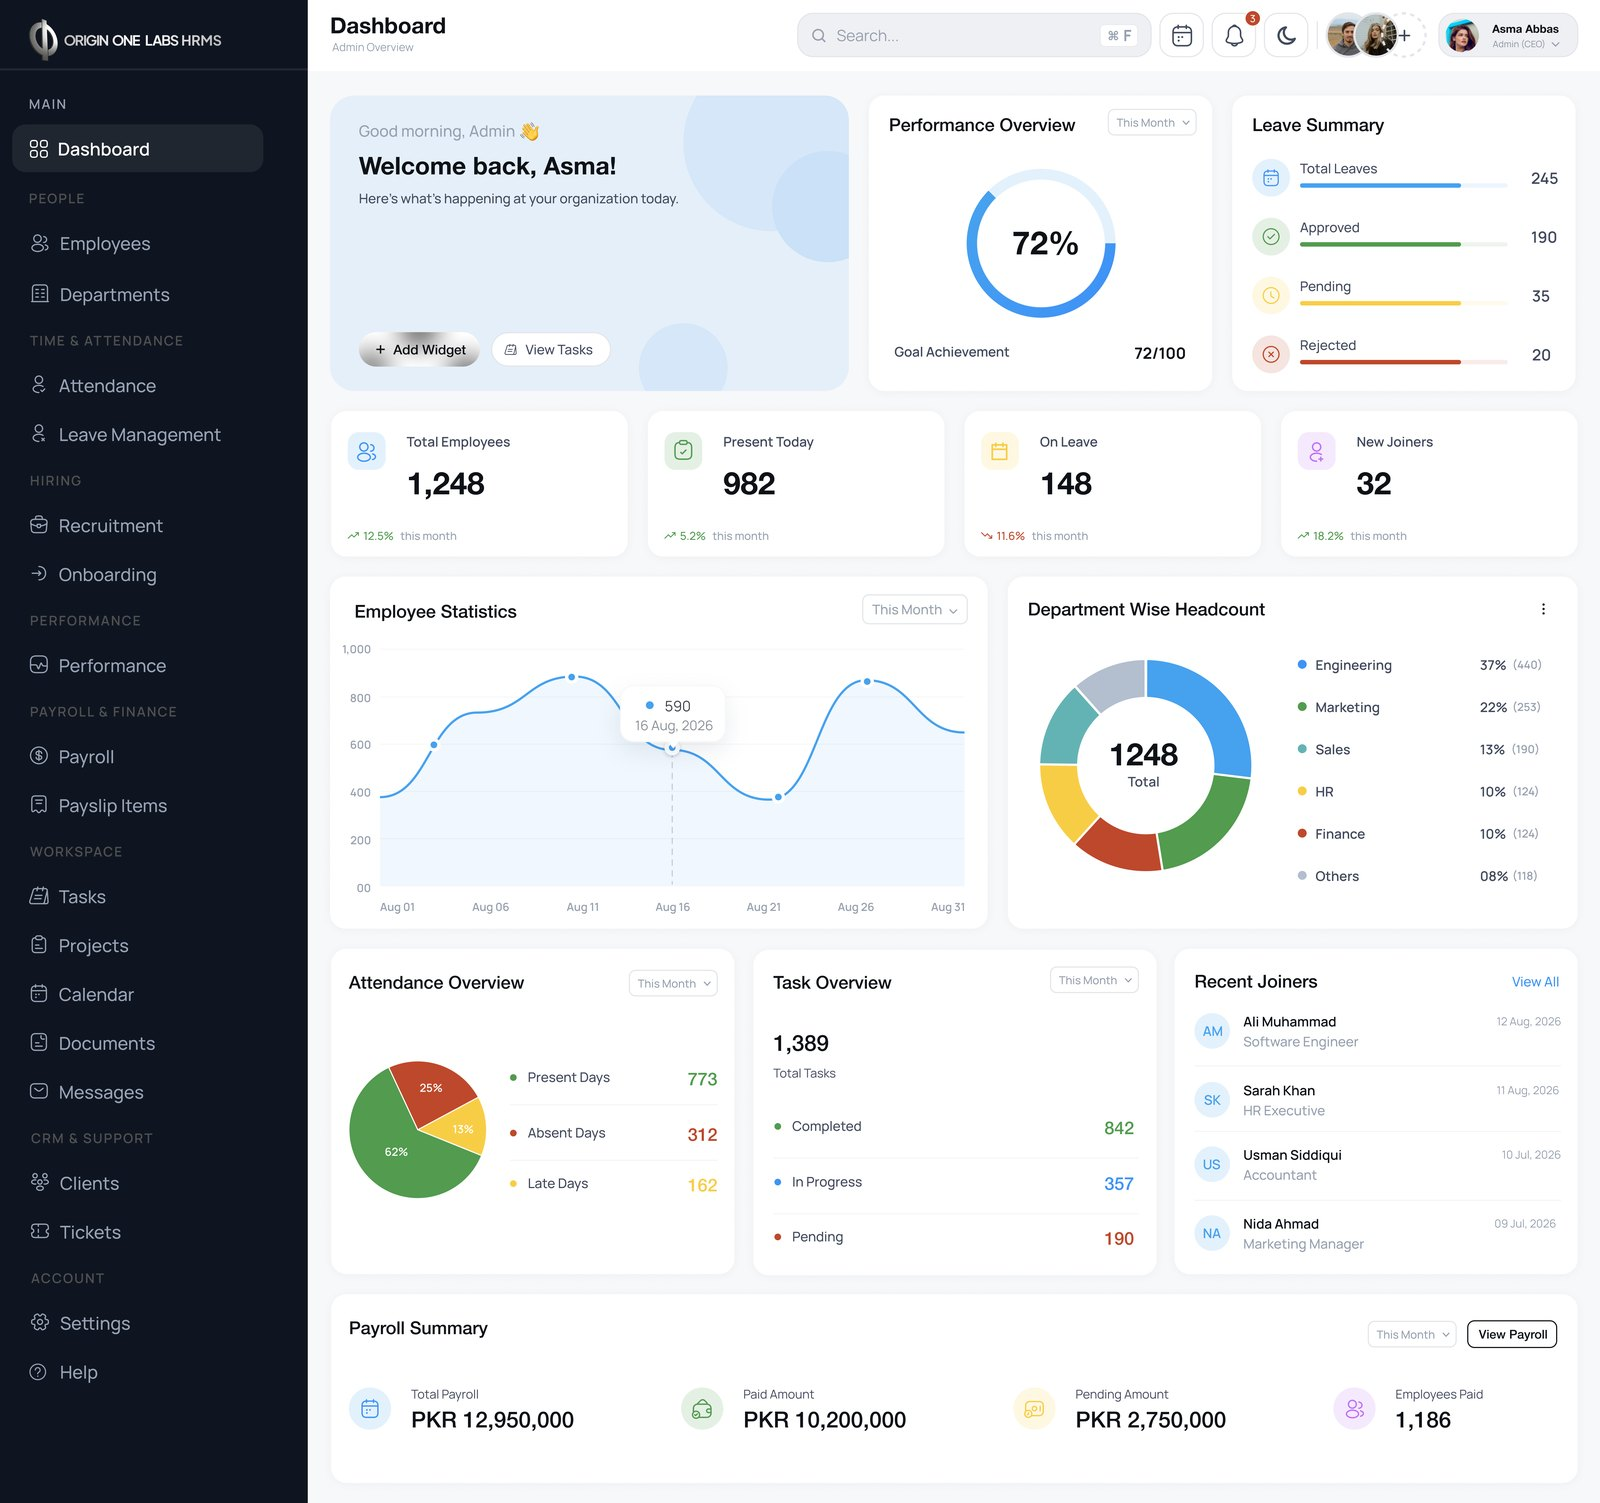
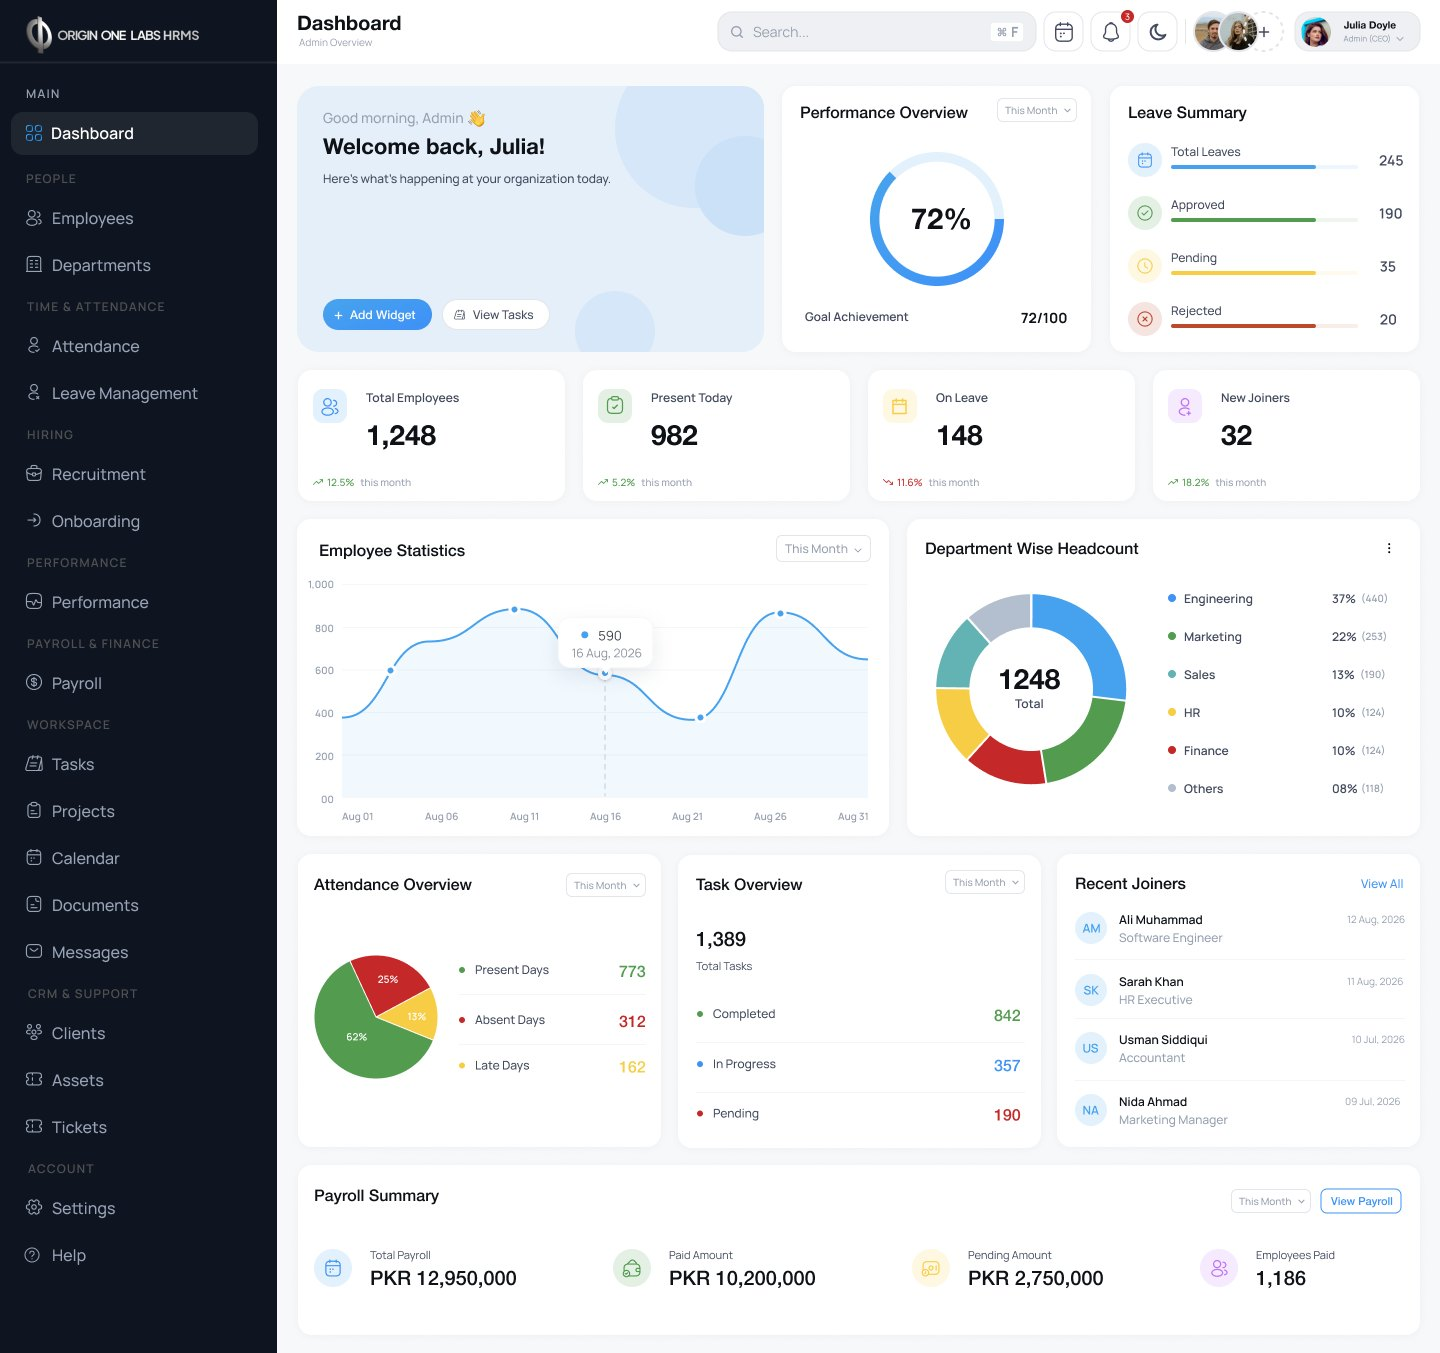
Updated changes

diff --git a/app/components/ProjectSlide.tsx b/app/components/ProjectSlide.tsx
@@ -28,6 +28,11 @@ interface ProjectSlideProps {
   topMaxWidth?: string;
 }
 
+const mockupVariants = {
+  hidden: { opacity: 0 },
+  visible: { opacity: 1, transition: { duration: 1.0, ease: [0.16, 1, 0.3, 1] as const } },
+};
+
 export default function ProjectSlide({
   // eslint-disable-next-line @typescript-eslint/no-unused-vars
   id, slideNumber, title, description, domain, background, status, features, mockupSrc, mockupSrcSplash, mockupType = "mobile", showcase, topMaxWidth = "620px",
@@ -37,11 +42,11 @@ export default function ProjectSlide({
       {/* Full-height positioning context */}
       <div className="project-slide-frame">
 
-        {/* ── Top: label + title + description + divider ── */}
-        <div className="stack stack-sm" style={{ maxWidth: topMaxWidth }}>
+        {/* ── Header: label + title + description + divider ── */}
+        <div className="stack stack-sm">
 
           {/* Top row */}
-          <div style={{ display: "flex", alignItems: "center", justifyContent: "space-between", paddingBottom: "0.2rem" }}>
+          <div style={{ display: "flex", alignItems: "center" }}>
             <motion.p className="t-label eyebrow" variants={itemVariants} style={{ position: "relative", overflow: "hidden" }}>
               <motion.span
                 className="label-shimmer"
@@ -56,28 +61,8 @@ export default function ProjectSlide({
                   pointerEvents: "none"
                 }}
               />
-              {slideNumber} / Project Overview
+              {slideNumber.padStart(2, "0")} / Project Overview
             </motion.p>
-            <motion.span variants={itemVariants}
-              style={{
-                display: "inline-flex", alignItems: "center", gap: "0.45rem",
-                padding: "0.28rem 0.85rem", border: "1px solid var(--accent-line)",
-                borderRadius: "999px",
-                background: "var(--accent-dim)",
-                fontFamily: "var(--f-body)", fontSize: "0.58rem",
-                letterSpacing: "0.14em", textTransform: "uppercase", color: "var(--stem)", fontWeight: 600
-              }}>
-              <motion.span
-                animate={{ opacity: [0.3, 1, 0.3] }}
-                transition={{ repeat: Infinity, duration: 2.5, ease: "easeInOut" }}
-                style={{
-                  width: "6px", height: "6px", borderRadius: "50%",
-                  background: status === "Delivered" ? "var(--stem-bright)" : "var(--border-strong)",
-                  boxShadow: status === "Delivered" ? "0 0 8px 1px rgb(var(--stem-bright-rgb) / 0.7)" : "none"
-                }}
-              />
-              {status}
-            </motion.span>
           </div>
 
           {/* Domain + title */}
@@ -85,28 +70,28 @@ export default function ProjectSlide({
             {/* <motion.p className="t-mono" variants={itemVariants} style={{ color: "var(--accent)", opacity: 0.6 }}>
               {domain}
             </motion.p> */}
-            <motion.h2 className="t-h3" variants={itemVariants} style={{ maxWidth: "900px" }}>
+            <motion.h2 className="t-h3" variants={itemVariants} style={{ maxWidth: topMaxWidth }}>
               {title}
             </motion.h2>
           </div>
 
+          {/* Overview Description */}
+          <motion.p className="t-body" variants={itemVariants} style={{ maxWidth: "900px" }}>
+            {description}
+          </motion.p>
+
+          <motion.div variants={itemVariants} style={{ borderBottom: "1px solid var(--border)", margin: "0.25rem 0", maxWidth: "900px" }} />
+
         </div>
 
-        {/* ── Bottom row: features grid + mockup, both bottom-aligned ── */}
+        {/* ── Row: Key Features + screens, sharing one top line ── */}
         <div className="project-slide-row">
 
-          {/* Left: description + divider + features grid */}
+          {/* Left: features grid */}
           <div className="stack stack-sm project-slide-left">
 
-            {/* Overview Description */}
-            <motion.p className="t-body" variants={itemVariants} style={{ maxWidth: "900px" }}>
-              {description}
-            </motion.p>
-
-            <motion.div variants={itemVariants} style={{ borderBottom: "1px solid var(--border)", margin: "0.25rem 0", maxWidth: "900px" }} />
-
             {/* Key Features (2x2 Grid) */}
-            <div className="feature-grid">
+            <div className="feature-grid" style={{ marginTop: 0 }}>
               {features.map((f, i) => (
                 <motion.div
                   key={i}
@@ -168,13 +153,10 @@ export default function ProjectSlide({
 
           {/* Right Area Wrapper — takes the remaining space on the right */}
           <div className="mockup-positioning project-slide-right">
-            {/* Device Mockup */}
+            {/* Device Mockup — fades in without moving, so a PDF export taken
+                mid-reveal can never shift the screens off the features' top line. */}
             <motion.div
-              variants={itemVariants}
-              animate={{ y: [0, -10, 0] }}
-              transition={{
-                y: { repeat: Infinity, duration: 6, ease: "easeInOut" }
-              }}
+              variants={mockupVariants}
               style={{
                 flexShrink: 0,
                 display: "flex",

diff --git a/app/globals.css b/app/globals.css
@@ -54,17 +54,17 @@
   --shadow-md: 0 18px 48px -24px rgb(var(--ink-rgb) / 0.28);
 }
 
-/* ─── Primary stem — Cyan Blue ───
-   Cyan Blue (Brand kit V2 · option 02) is the deck's primary colour on
-   every slide: #0A78C2 is the light-mode stem (marks, lines, accent
-   type on Ivory), #2AB4F5 the bright shade for fills behind Ink. The
+/* ─── Primary stem — Turquoise Cyan ───
+   Turquoise Cyan (Brand kit V2 · option 01) is the deck's primary colour
+   on every slide: #0A8C93 is the light-mode stem (marks, lines, accent
+   type on Ivory), #1CC8D0 the bright shade for fills behind Ink. The
    other two colourways appear only in the small tri-stem accents. */
 :root {
-  --stem: var(--stem-b);
-  --stem-bright: var(--stem-b-hi);
-  --stem-rgb: 10 120 194;
-  --stem-bright-rgb: 42 180 245;
-  --stem-soft: #e3f2fb;
+  --stem: var(--stem-a);
+  --stem-bright: var(--stem-a-hi);
+  --stem-rgb: 10 140 147;
+  --stem-bright-rgb: 28 200 208;
+  --stem-soft: #e2f6f7;
 }
 
 :root {
@@ -304,6 +304,8 @@ body {
   font-weight: 600;
   letter-spacing: 0.22em;
   text-transform: uppercase;
+  /* Fixed-width digits: slide numbers don't shift what follows them. */
+  font-variant-numeric: tabular-nums;
   color: var(--tx-3);
 }
 
@@ -355,7 +357,7 @@ body {
   color: var(--accent);
 }
 
-/* Headline second line — the brand's light-mode Cyan Blue stem. */
+/* Headline second line — the brand's light-mode Turquoise Cyan stem. */
 .t-dim {
   color: var(--stem);
 }
@@ -462,21 +464,27 @@ body {
 }
 
 /* Project Slide Layout */
+/* One spacing step (--project-gap) separates the title block from the
+   description and the text column from the screens, so the rhythm is
+   symmetric at every size and on every export page. */
 .project-slide-frame {
+  --project-gap: clamp(0.85rem, 2.6vh, 1.6rem);
   position: relative;
   width: 100%;
   height: 100%;
   display: flex;
   flex-direction: column;
   justify-content: center;
+  gap: var(--project-gap);
 }
 
+/* Screens start on the same top line as the Key Features grid. */
 .project-slide-row {
   display: flex;
   flex-wrap: wrap;
-  align-items: flex-end;
+  align-items: flex-start;
   width: 100%;
-  row-gap: clamp(1rem, 6vh, 3rem);
+  row-gap: var(--project-gap);
 }
 
 .project-slide-left {
@@ -883,11 +891,21 @@ body.pdf-export-active .laptop-base {
 
 .mockup-positioning {
   position: relative;
-  top: -6vh;
 }
 
-body.pdf-export-active .mockup-positioning {
-  top: 0 !important;
+/* Export frames vary in width per slide; keep text and screens side by
+   side so every project page has the same composition. */
+body.pdf-export-active .project-slide-row {
+  flex-wrap: nowrap !important;
+}
+
+body.pdf-export-active .project-slide-left {
+  flex: 1 1 0 !important;
+  min-width: 0;
+}
+
+body.pdf-export-active .project-slide-right {
+  flex: 0 0 auto !important;
 }
 
 /* ═══════════════════════════════════════════════════════
@@ -1364,10 +1382,6 @@ body.pdf-export-active .browser-screen img {
   }
 
   /* The upward nudge only makes sense inside a fixed-height frame. */
-  .mockup-positioning {
-    top: 0;
-  }
-
   .about-values-empty {
     display: none !important;
   }
@@ -1547,9 +1561,6 @@ body.pdf-export-active .browser-screen img {
     gap: 0.4rem;
   }
 
-  .mockup-positioning {
-    top: -3vh;
-  }
 }
 
 @media screen and (min-width: 961px) and (max-height: 780px) {
@@ -1577,10 +1588,6 @@ body.pdf-export-active .browser-screen img {
 
   .portfolio-mini-device {
     height: clamp(80px, 16svh, 140px);
-  }
-
-  .mockup-positioning {
-    top: 0;
   }
 }
 

diff --git a/app/opengraph-image.tsx b/app/opengraph-image.tsx
@@ -4,7 +4,7 @@ import { join } from "node:path";
 import { MARK_VIEWBOX } from "./components/BrandMark";
 
 /* Social share card — mirrors the deck's cover: stacked brand lockup,
-   "Company Profile" title, tagline, and corner meta, in Cyan Blue on
+   "Company Profile" title, tagline, and corner meta, in Turquoise Cyan on
    Ivory. Centred so it survives the square crop WhatsApp and others
    apply to small previews. */
 
@@ -14,8 +14,8 @@ export const contentType = "image/png";
 
 const IVORY = "#f6f5f0";
 const INK = "#0b0c10";
-const CYAN = "#0a78c2";
-const CYAN_HI = "#2ab4f5";
+const CYAN = "#0a8c93";
+const CYAN_HI = "#1cc8d0";
 const MUTED = "rgba(11,12,16,0.56)";
 
 export default async function Image() {
@@ -26,7 +26,7 @@ export default async function Image() {
   ]);
 
   const meta = { fontSize: 17, fontWeight: 700, letterSpacing: "0.22em", color: MUTED } as const;
-  const rule = { flex: 1, height: 1, margin: "0 24px", background: "rgba(10,120,194,0.28)" } as const;
+  const rule = { flex: 1, height: 1, margin: "0 24px", background: "rgba(10,140,147,0.28)" } as const;
 
   return new ImageResponse(
     (
@@ -40,7 +40,7 @@ export default async function Image() {
           justifyContent: "space-between",
           background: IVORY,
           backgroundImage:
-            "radial-gradient(circle at 50% 46%, rgba(42,180,245,0.14) 0%, rgba(246,245,240,0) 46%), linear-gradient(rgba(11,12,16,0.04) 1px, transparent 1px), linear-gradient(90deg, rgba(11,12,16,0.04) 1px, transparent 1px)",
+            "radial-gradient(circle at 50% 46%, rgba(28,200,208,0.14) 0%, rgba(246,245,240,0) 46%), linear-gradient(rgba(11,12,16,0.04) 1px, transparent 1px), linear-gradient(90deg, rgba(11,12,16,0.04) 1px, transparent 1px)",
           backgroundSize: "100% 100%, 60px 60px, 60px 60px",
           fontFamily: "Jakarta",
           color: INK,
@@ -81,7 +81,7 @@ export default async function Image() {
           </div>
         </div>
 
-        {/* Footer meta + Cyan Blue bar */}
+        {/* Footer meta + Turquoise Cyan bar */}
         <div style={{ display: "flex", flexDirection: "column", width: "100%" }}>
           <div style={{ display: "flex", alignItems: "center", width: "100%", paddingBottom: 30 }}>
             <div style={{ ...meta, letterSpacing: "0.08em", fontWeight: 500 }}>originonelabs.com</div>

diff --git a/app/components/PresentationShell.tsx b/app/components/PresentationShell.tsx
@@ -283,7 +283,7 @@ export default function PresentationShell({ children }: { children: ReactNode })
           height: "2px",
           width: `${((current + 1) / SLIDES.length) * 100}%`,
           background: "linear-gradient(90deg, var(--stem), var(--stem-bright))",
-          boxShadow: "0 0 12px rgba(42,180,245,0.6)",
+          boxShadow: "0 0 12px rgba(28,200,208,0.6)",
           zIndex: 1000,
           transition: "width 0.8s cubic-bezier(0.16, 1, 0.3, 1)",
         }}

diff --git a/app/components/FluidBackground.tsx b/app/components/FluidBackground.tsx
@@ -43,7 +43,7 @@ export default function FluidBackground() {
       splatRadius: 0.1,
       shading: true,
       colorful: true,
-      colorPalette: ["#2ab4f5", "#5cc6f7", "#2ab4f5"], // Cyan Blue, the primary stem
+      colorPalette: ["#1cc8d0", "#4fd6dc", "#1cc8d0"], // Turquoise Cyan, the primary stem
       bloom: false,
       bloomIterations: 8,
       bloomResolution: 256,

diff --git a/app/components/NavDots.tsx b/app/components/NavDots.tsx
@@ -36,7 +36,7 @@ export default function NavDots() {
             cursor: "pointer",
             padding: 0,
             transition: "all 0.4s cubic-bezier(0.16, 1, 0.3, 1)",
-            boxShadow: current === i ? "0 0 10px rgba(42,180,245,0.55)" : "none",
+            boxShadow: current === i ? "0 0 10px rgba(28,200,208,0.55)" : "none",
           }}
         />
       ))}

diff --git a/app/components/BrandMark.tsx b/app/components/BrandMark.tsx
@@ -9,7 +9,7 @@ export const MARK_VIEWBOX = { x: 122, y: 74, w: 156, h: 252 };
 export default function BrandMark({
   height,
   ring = "#0b0c10",
-  stem = "#0a78c2",
+  stem = "#0a8c93",
   style,
 }: {
   height: number | string;

diff --git a/scratch/import_web_screens.py b/scratch/import_web_screens.py
@@ -16,7 +16,8 @@ from screen_utils import flatten_corners, save_jpeg  # noqa: E402
 PUBLIC = os.path.join(os.path.dirname(os.path.abspath(__file__)), "..", "public")
 
 JOBS = [
-    ("hrms.png", "hrms.jpg"),
+    # Updated HRMS admin dashboard (employees, attendance, leave, payroll).
+    (os.path.expanduser("~/Downloads/Dashboard.png"), "hrms.jpg"),
     ("D24.png", "digital24.jpg"),
     ("new screens/IMG_8589.png", "clinic.jpg"),
     ("new screens/IMG_8591.png", "manufacturing.jpg"),
